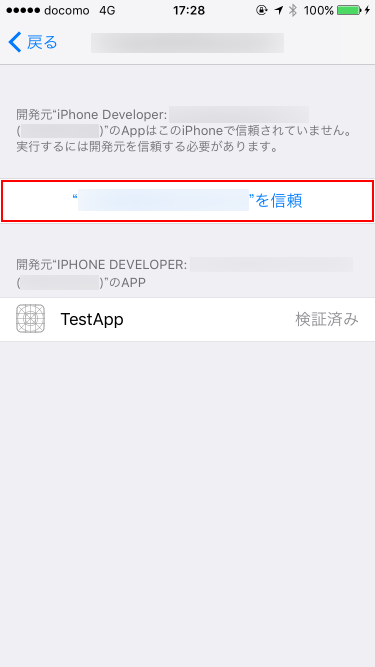
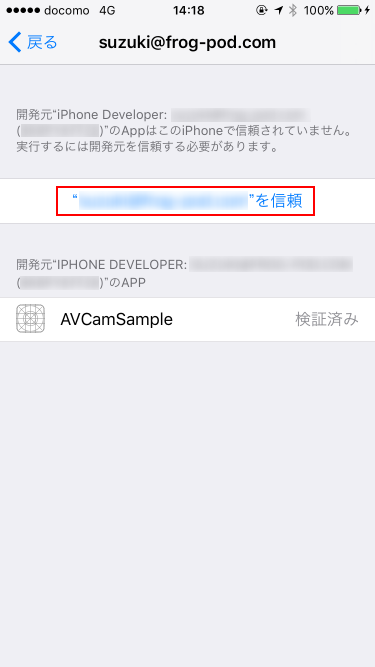
原稿修正・画像修正

diff --git a/readme.md b/readme.md
@@ -4,9 +4,62 @@
 
 [https://developer.apple.com/library/content/samplecode/AVCam/Introduction/Intro.html](https://developer.apple.com/library/content/samplecode/AVCam/Introduction/Intro.html "AVCam-iOS")
 
-## ソリューション作成 ##
 
-[ファイル]->[新しいソリューション]でソリューションを作成する
+# XCodeでダミーアプリを実行 #
+
+プロビジョニングプロファイルや証明書の紐付けが自動で行われるようにXcodeでSwiftのダミーアプリを作成します。
+
+[File]->[New]->[Project]でプロジェクトを作成します。
+
+![](https://github.com/TomohiroSuzuki128/XamiOSHandsOn01/blob/master/images/020.png?raw=true)
+
+
+iOSのSingle View Applicationを選択し、[Next]を押します。
+
+![](https://github.com/TomohiroSuzuki128/XamiOSHandsOn01/blob/master/images/021.png?raw=true)
+
+Product Name は　AVCamSample にして下さい。
+Organization Identifier はユニークな名前になるようにしてください。
+[Next]を押します。
+
+![](https://github.com/TomohiroSuzuki128/XamiOSHandsOn01/blob/master/images/022.png?raw=true)
+
+<code>AVCamSampleXcode</code>というフォルダを作成し、その中にプロジェクトを保存してください。
+
+![](https://github.com/TomohiroSuzuki128/XamiOSHandsOn01/blob/master/images/023.png?raw=true)
+
+Product Name と　Organization Identifier が正しく設定されているのを確認して下さい。
+Signingの部分が自動で修正されて、Provisioning ProfileとSigning　Certificateが下記のように設定されているのを確認してください。
+左上のデバッグ実行の部分にご自分のiPhoneが認識されているのを確認してください。
+全て確認できたらデバッグ実行します。
+
+![](https://github.com/TomohiroSuzuki128/XamiOSHandsOn01/blob/master/images/024.png?raw=true)
+
+以下の表示が出たら、[常に許可]を押します。
+
+![](https://github.com/TomohiroSuzuki128/XamiOSHandsOn01/blob/master/images/025.png?raw=true)
+
+
+以下の表示が出たら、[常に許可]を押します。
+
+![](https://github.com/TomohiroSuzuki128/XamiOSHandsOn01/blob/master/images/026.png?raw=true)
+
+
+以下の表示が出たら、ご自分のiPhoneの中にAVCamSampleと言う名前のアプリが既にインストールされているか確認し、インストールされている場合、アンインストールしてください。
+
+![](https://github.com/TomohiroSuzuki128/XamiOSHandsOn01/blob/master/images/027.png?raw=true)
+
+無事アプリが起動し、真っ白な画面が表示されたら成功です。
+
+これで、準備作業は完了です。
+
+
+
+# ソリューション作成 #
+
+では、ここからが本題です。まずはソリューションを作成しましょう。
+
+[ファイル]->[新しいソリューション]でソリューションを作成します。
 
 [iOS]->[アプリ]->[単一ビューアプリ]->[次へ]
 
